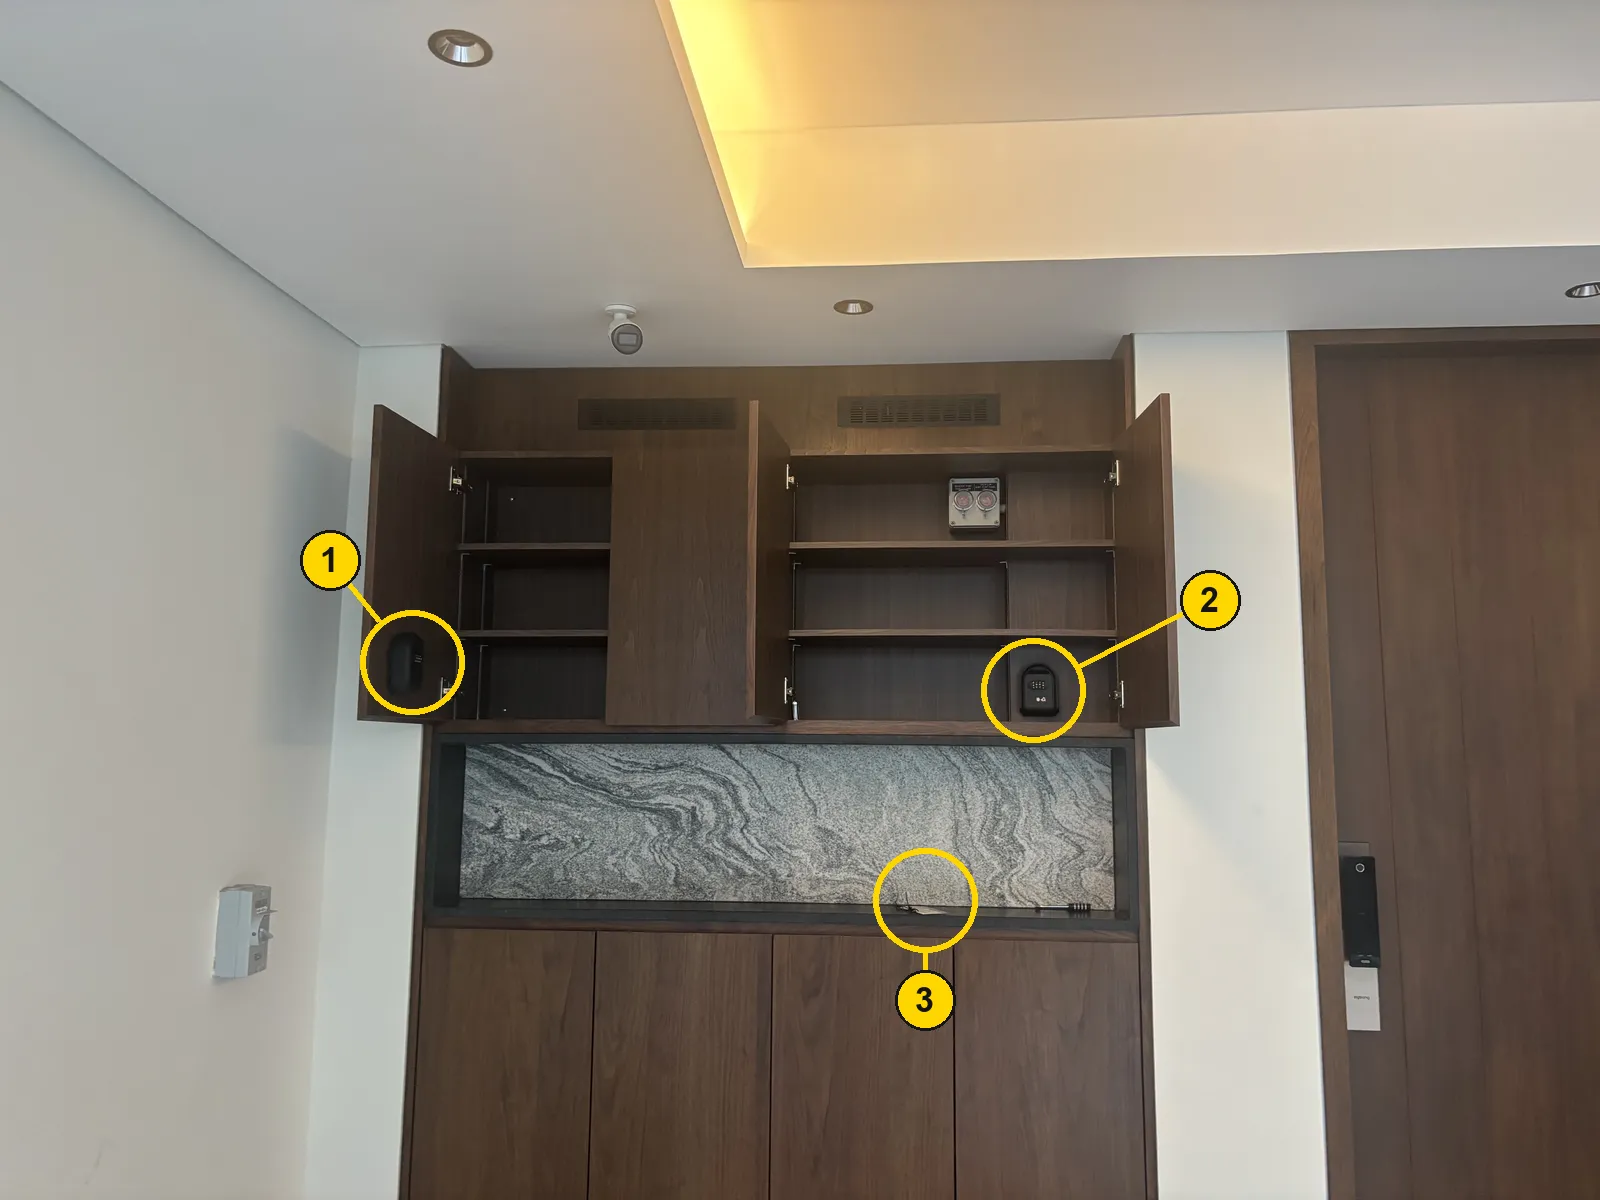
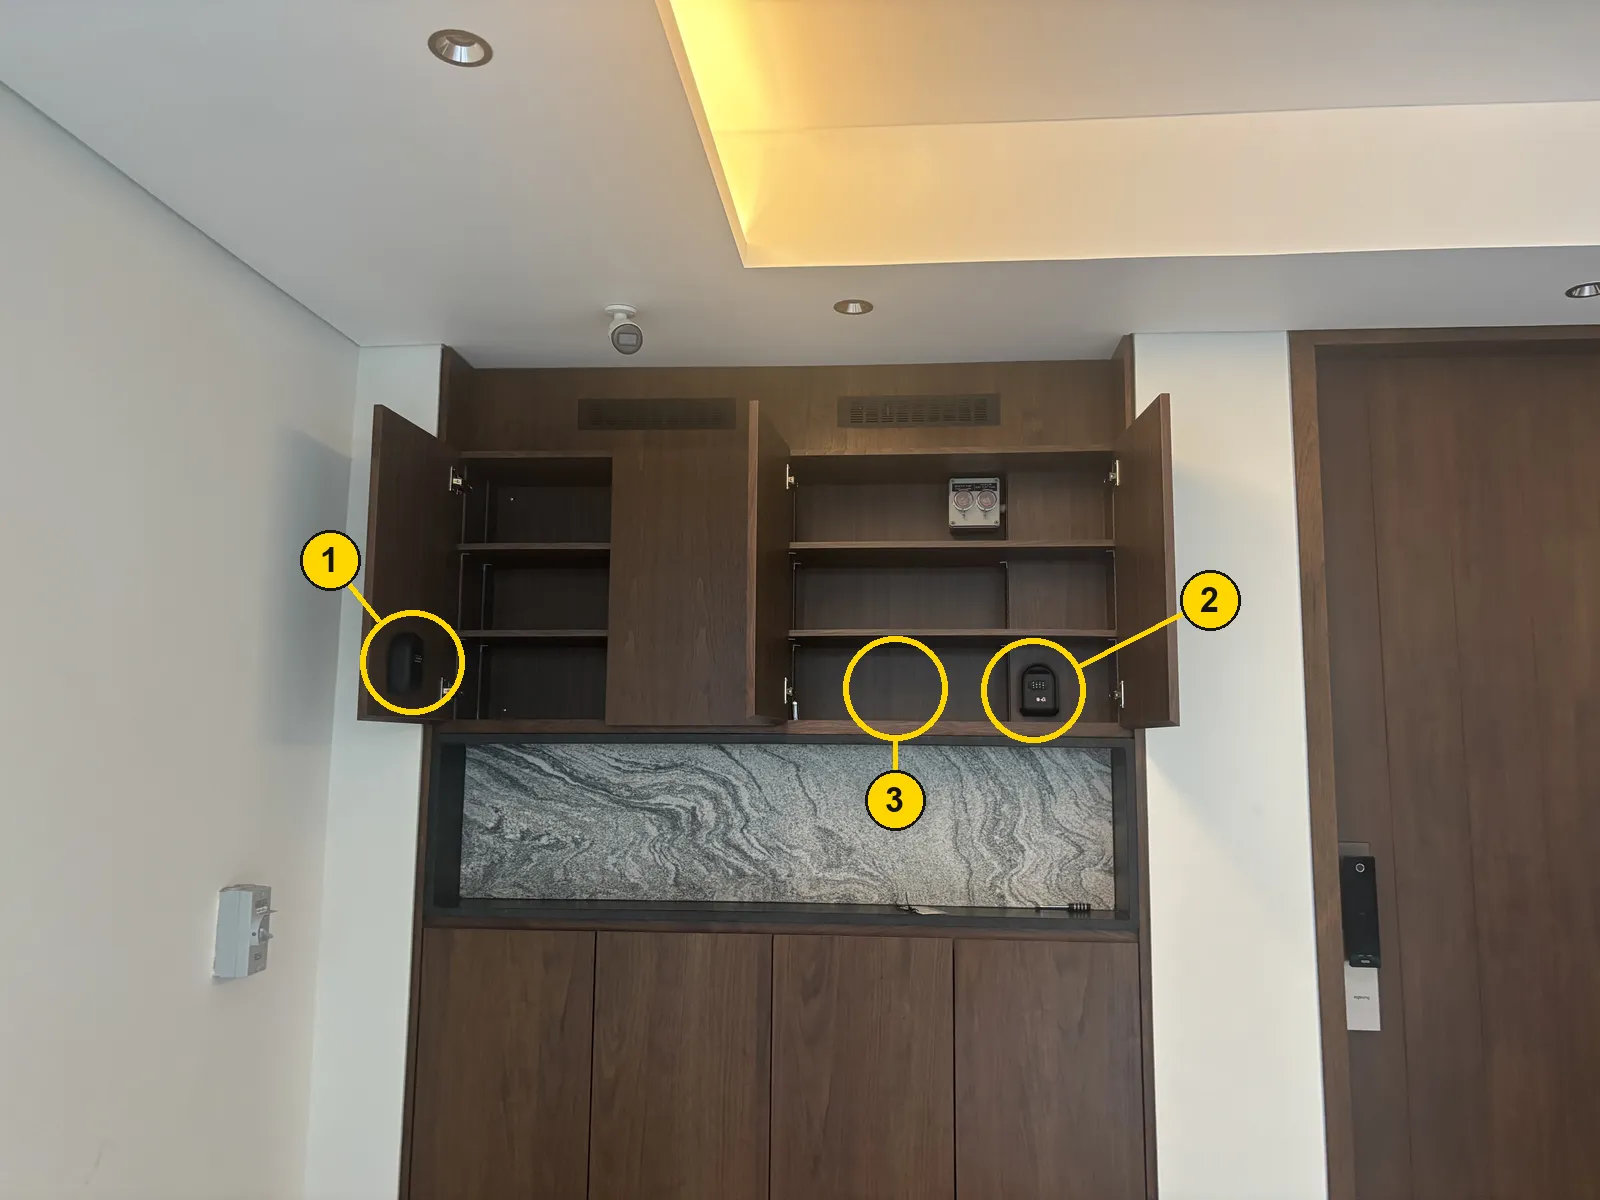
Guide: spare battery is on the bottom shelf with the arrival lock box
Moves marker 3 on the door-cabinet photo and corrects the battery's
location in all languages.

Changed region(s): [[0.5312, 0.5242, 0.625, 0.8633], [0.5, 0.555, 0.5312, 0.5858]]

diff --git a/ja/guide/guide.md b/ja/guide/guide.md
@@ -40,11 +40,11 @@ _最終更新：2026年11月9日_
 - ちょっと出かけるときでも、必ず門を閉め、玄関ドアに鍵をかけてください。
 - 玄関の暗証番号は、絶対に他の人に教えないでください。
 
-![玄関ドアの横、屋外にある棚。1：締め出し用キーボックス（予備の鍵入り）。上の棚の左扉の内側にあります。2：ペンギンのシールが3つ貼ってある到着用キーボックス。右側のいちばん下の段にあります。3：ドアロック用の予備の 9V 電池。オープン棚の中央、奥の壁際にあります。](../../assets/img/guide/door-cabinet.webp)
+![玄関ドアの横、屋外にある棚。1：締め出し用キーボックス（予備の鍵入り）。上の棚の左扉の内側にあります。2：ペンギンのシールが3つ貼ってある到着用キーボックス。右側のいちばん下の段にあります。3：ドアロック用の予備の 9V 電池。到着用キーボックスと同じ段（右側のいちばん下の段）の中央にあります。](../../assets/img/guide/door-cabinet.webp)
 
 - **夜遅くに到着する場合：** 玄関ドア用のカードキーは **到着用キーボックス（写真の 2）** に入っています。**ペンギンのシールが3つ** 貼ってあるボックスで、玄関ドア横の上の棚の右側、いちばん下の段にあります。暗証番号はご到着前にお送りします。
 - **ドアロックの電池：** 電池残量が少ないという表示が出たら、お知らせください。交換いたします。電池が完全に切れると、キーパッドが反応しなくなります。その場合の開け方：
-  1. 玄関ドア横の棚の **オープン棚**（奥が大理石になっている段）から予備の **9V 電池** を取り出してください（**中央の奥の壁際**、写真の 3）。取り出せない場合は、コンビニで購入できます（9V アルカリ電池、型番 6LF22）。
+  1. 玄関ドア横の上の棚から予備の **9V 電池** を取り出してください（**右側のいちばん下の段の中央**、写真の 3。到着用キーボックスと同じ段です）。取り出せない場合は、コンビニで購入できます（9V アルカリ電池、型番 6LF22）。
   2. 電池の2つの端子を、**屋外側キーパッド下部の非常用端子** に当ててください。
   3. 当てたまま、いつもどおり暗証番号を入力して解錠してください。
   4. ドアロックの電池を交換しますので、ご連絡ください。

diff --git a/fr/guide/guide.md b/fr/guide/guide.md
@@ -42,11 +42,11 @@ Kevin est votre premier interlocuteur pour tout ce qui concerne la maison. En ca
 - Refermez toujours le portail et verrouillez la porte d’entrée derrière vous, même pour sortir un instant.
 - Ne communiquez jamais le code de la porte d’entrée à qui que ce soit.
 
-![Le meuble à côté de la porte d’entrée, à l’extérieur. 1 : la boîte à clés de secours (clé manuelle), à l’intérieur de la porte gauche du meuble du haut. 2 : la boîte à clés d’arrivée, avec trois autocollants de pingouins, sur l’étagère du bas à droite. 3 : la pile 9 V de rechange pour la serrure, sur l’étagère ouverte, au milieu, contre le mur du fond.](../../assets/img/guide/door-cabinet.webp)
+![Le meuble à côté de la porte d’entrée, à l’extérieur. 1 : la boîte à clés de secours (clé manuelle), à l’intérieur de la porte gauche du meuble du haut. 2 : la boîte à clés d’arrivée, avec trois autocollants de pingouins, sur l’étagère du bas à droite. 3 : la pile 9 V de rechange pour la serrure, au milieu de la même étagère du bas que la boîte à clés d’arrivée.](../../assets/img/guide/door-cabinet.webp)
 
 - **Vous arrivez tard ?** Votre carte d’accès pour la porte d’entrée vous attend dans la **boîte à clés d’arrivée (2 sur la photo)** : celle avec **trois autocollants de pingouins**, sur l’étagère du bas à droite du meuble du haut, à côté de la porte d’entrée. Nous vous envoyons son code avant votre arrivée.
 - **Piles de la serrure :** si la serrure signale que les piles sont faibles, prévenez-nous et nous les changerons. Si elles sont complètement vides, le clavier ne répond plus. Pour ouvrir la porte :
-  1. Prenez la **pile 9 V** de rechange sur l’**étagère ouverte** (celle au fond en marbre) du meuble à côté de la porte d’entrée : elle se trouve **au milieu, contre le mur du fond** (3 sur la photo). Si vous ne pouvez pas y accéder, on en trouve dans toutes les supérettes (pile alcaline 9 V, type 6LF22).
+  1. Prenez la **pile 9 V** de rechange dans le meuble du haut, à côté de la porte d’entrée : elle se trouve sur l’**étagère du bas à droite, au milieu** (3 sur la photo), la même étagère que la boîte à clés d’arrivée. Si vous ne pouvez pas y accéder, on en trouve dans toutes les supérettes (pile alcaline 9 V, type 6LF22).
   2. Appuyez les deux bornes de la pile contre les **contacts de secours en bas du clavier extérieur**.
   3. Maintenez-la en place et déverrouillez comme d’habitude avec votre code.
   4. Écrivez-nous pour que nous changions les piles de la serrure.

diff --git a/es/guide/guide.md b/es/guide/guide.md
@@ -42,11 +42,11 @@ Kevin es su primer contacto para cualquier asunto de la casa. En una emergencia,
 - Cierre siempre la verja y la puerta principal al salir, aunque sea un momento.
 - No comparta nunca el código de la puerta principal con nadie.
 
-![El mueble junto a la puerta principal, fuera de la casa. 1: la caja de seguridad de emergencia (llave manual), en el interior de la puerta izquierda del mueble superior. 2: la caja de seguridad de llegada, con tres pegatinas de pingüinos, en el estante de abajo a la derecha. 3: la pila de 9 V de repuesto para la cerradura, en el estante abierto, en el centro, junto a la pared del fondo.](../../assets/img/guide/door-cabinet.webp)
+![El mueble junto a la puerta principal, fuera de la casa. 1: la caja de seguridad de emergencia (llave manual), en el interior de la puerta izquierda del mueble superior. 2: la caja de seguridad de llegada, con tres pegatinas de pingüinos, en el estante de abajo a la derecha. 3: la pila de 9 V de repuesto para la cerradura, en el centro del mismo estante de abajo que la caja de seguridad de llegada.](../../assets/img/guide/door-cabinet.webp)
 
 - **¿Llega tarde?** Su tarjeta de acceso para la puerta principal le espera en la **caja de seguridad de llegada (2 en la foto)**: la que tiene **tres pegatinas de pingüinos**, en el estante de abajo a la derecha del mueble superior junto a la puerta principal. Le enviamos su código antes de su llegada.
 - **Pilas de la cerradura:** si la cerradura avisa de que las pilas están bajas, avísenos y las cambiaremos. Si se agotan del todo, el teclado deja de funcionar. Para abrir la puerta:
-  1. Coja la **pila de 9 V** de repuesto del **estante abierto** (el del fondo de mármol) del mueble junto a la puerta principal: está **en el centro, junto a la pared del fondo** (3 en la foto). Si no puede acceder a ella, la venden en cualquier tienda de conveniencia (pila alcalina de 9 V, tipo 6LF22).
+  1. Coja la **pila de 9 V** de repuesto del mueble superior junto a la puerta principal: está en el **estante de abajo a la derecha, en el centro** (3 en la foto), el mismo estante que la caja de seguridad de llegada. Si no puede acceder a ella, la venden en cualquier tienda de conveniencia (pila alcalina de 9 V, tipo 6LF22).
   2. Apoye los dos polos de la pila en los **contactos de emergencia de la parte inferior del teclado exterior**.
   3. Manténgala ahí y abra como siempre con su código.
   4. Escríbanos para que cambiemos las pilas de la cerradura.

diff --git a/guide/guide.md b/guide/guide.md
@@ -45,11 +45,11 @@ Kevin is your first point of contact for anything about the house. In an emergen
 - Always close the front gate and lock the main door behind you, even when popping out.
 - Never share the main door code with anyone else.
 
-![The cabinet beside the main door, outside the house. 1: the locked-out lock box (manual key), on the inside of the upper cabinet’s left door. 2: the arrival lock box with three penguin stickers, on the bottom shelf on the right. 3: the spare 9 V battery for the door lock, on the open shelf, in the middle against the back wall.](../assets/img/guide/door-cabinet.webp)
+![The cabinet beside the main door, outside the house. 1: the locked-out lock box (manual key), on the inside of the upper cabinet’s left door. 2: the arrival lock box with three penguin stickers, on the bottom shelf on the right. 3: the spare 9 V battery for the door lock, on the same bottom shelf as the arrival lock box, in the middle.](../assets/img/guide/door-cabinet.webp)
 
 - **Arriving late?** Your keycard for the main door waits in the **arrival lock box (2 in the photo)**: the one with **three penguin stickers**, on the bottom shelf on the right of the upper cabinet beside the main door. We send you its code before you arrive.
 - **Door lock batteries:** if the lock warns that its batteries are low, let us know and we’ll replace them. If they run out completely, the keypad stops working. To open the door:
-  1. Take the spare **9 V battery** from the **open shelf** (the one with the marble back) in the cabinet beside the main door: it’s **in the middle, against the back wall** (3 in the photo). If you can’t get to it, any convenience store sells them (a 9 V alkaline battery, type 6LF22).
+  1. Take the spare **9 V battery** from the upper cabinet beside the main door: it’s on the **bottom shelf on the right, in the middle** (3 in the photo), the same shelf as the arrival lock box. If you can’t get to it, any convenience store sells them (a 9 V alkaline battery, type 6LF22).
   2. Hold the battery’s two terminals against the **emergency contacts at the bottom of the outer keypad**.
   3. Keep it there and unlock as usual with your code.
   4. Message us so we can replace the lock’s batteries.

diff --git a/zh/guide/guide.md b/zh/guide/guide.md
@@ -40,11 +40,11 @@ _最后更新：2026 年 11 月 9 日_
 - 进出时请务必关好前闸门并锁上大门，即使只是出去一会儿。
 - 切勿把大门密码告诉任何其他人。
 
-![大门旁边、屋外的柜子。1：应急锁盒（内有手动钥匙），在上层柜子左门的内侧。2：贴有三只企鹅贴纸的入住锁盒，在右边的最下层。3：门锁用的备用 9V 电池，在开放式格子里，中间靠后墙的位置。](../../assets/img/guide/door-cabinet.webp)
+![大门旁边、屋外的柜子。1：应急锁盒（内有手动钥匙），在上层柜子左门的内侧。2：贴有三只企鹅贴纸的入住锁盒，在右边的最下层。3：门锁用的备用 9V 电池，和入住锁盒在同一层（右边最下层）的中间。](../../assets/img/guide/door-cabinet.webp)
 
 - **很晚才到？** 您的大门门卡放在 **入住锁盒（照片中的 2）** 里：就是贴着 **三只企鹅贴纸** 的那个，在大门旁边上层柜子右边的最下层。锁盒密码我们会在您到达前发给您。
 - **门锁电池：** 如果门锁提示电量不足，请告诉我们，我们会更换电池。电池完全耗尽时，键盘会没有反应。开门方法：
-  1. 从大门旁边柜子的 **开放式格子**（背板是大理石的那一格）取出备用的 **9V 电池**：在 **中间靠后墙的位置**（照片中的 3）。如果拿不到，任何便利店都有售（9V 碱性电池，型号 6LF22）。
+  1. 从大门旁边的上层柜子取出备用的 **9V 电池**：在 **右边最下层的中间**（照片中的 3），和入住锁盒在同一层。如果拿不到，任何便利店都有售（9V 碱性电池，型号 6LF22）。
   2. 把电池的两个电极贴住 **门外键盘底部的紧急触点**。
   3. 保持贴住，然后照常输入密码开门。
   4. 通知我们，以便我们更换门锁电池。
